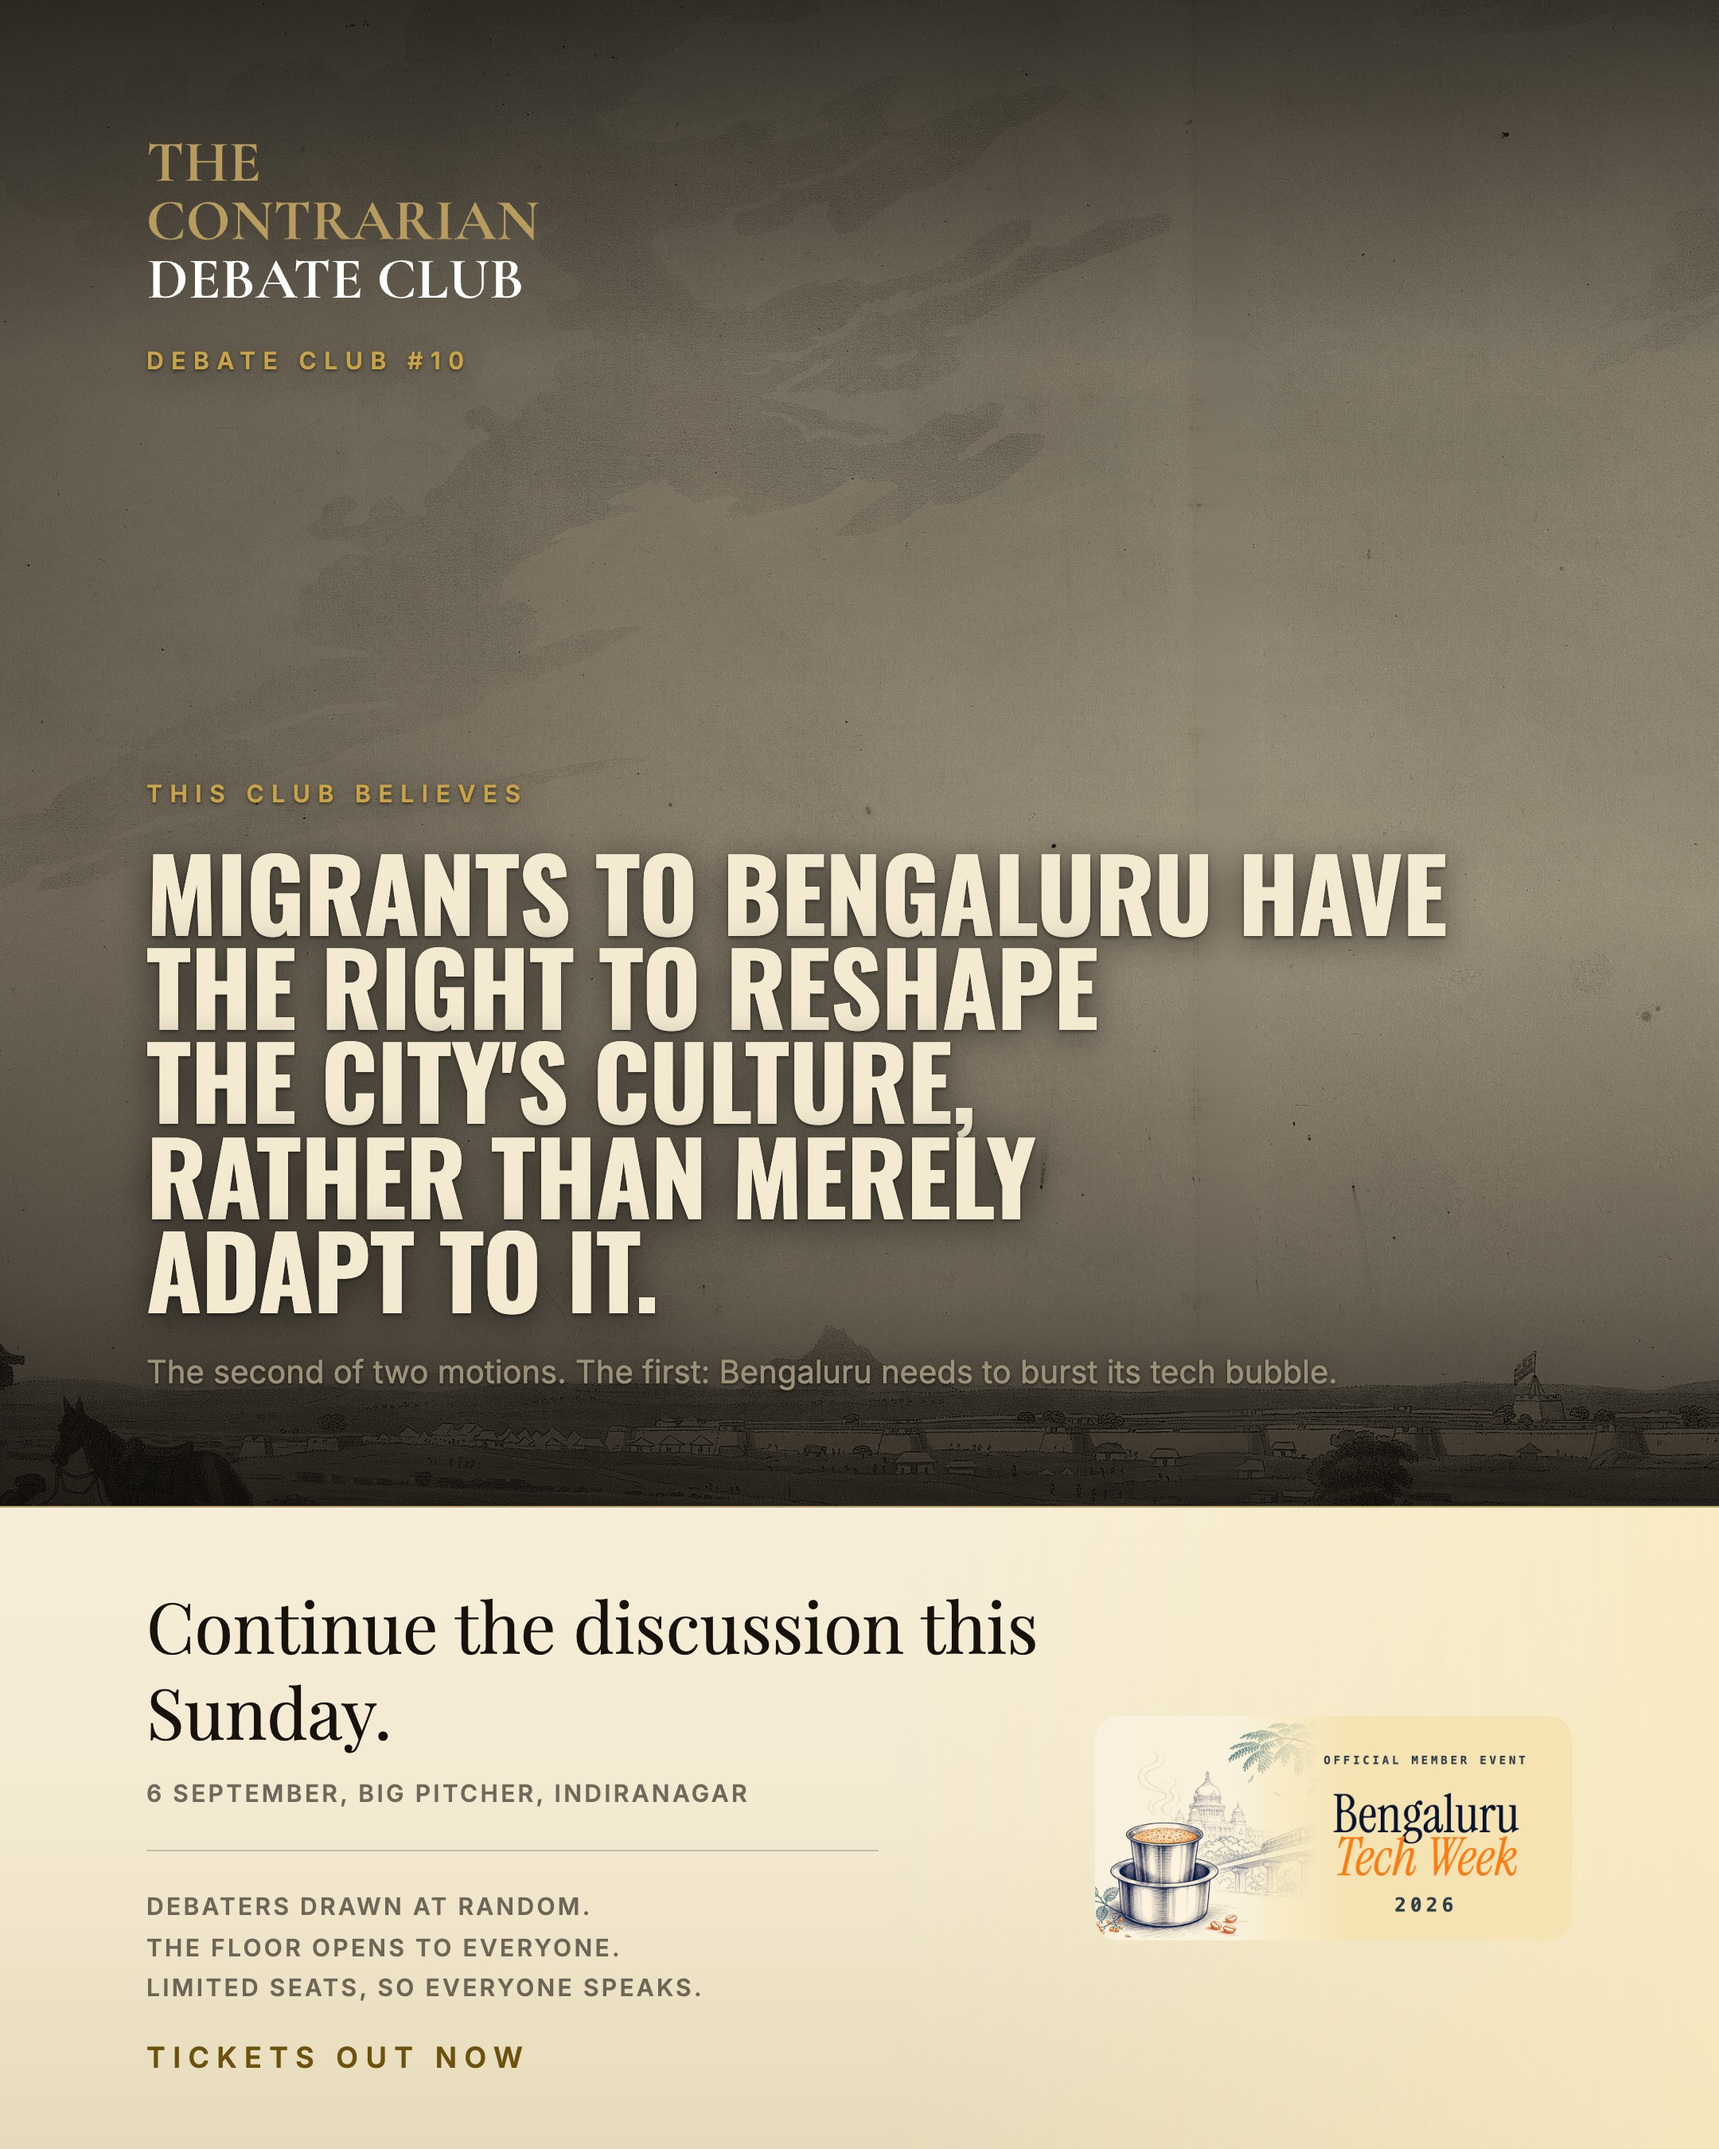
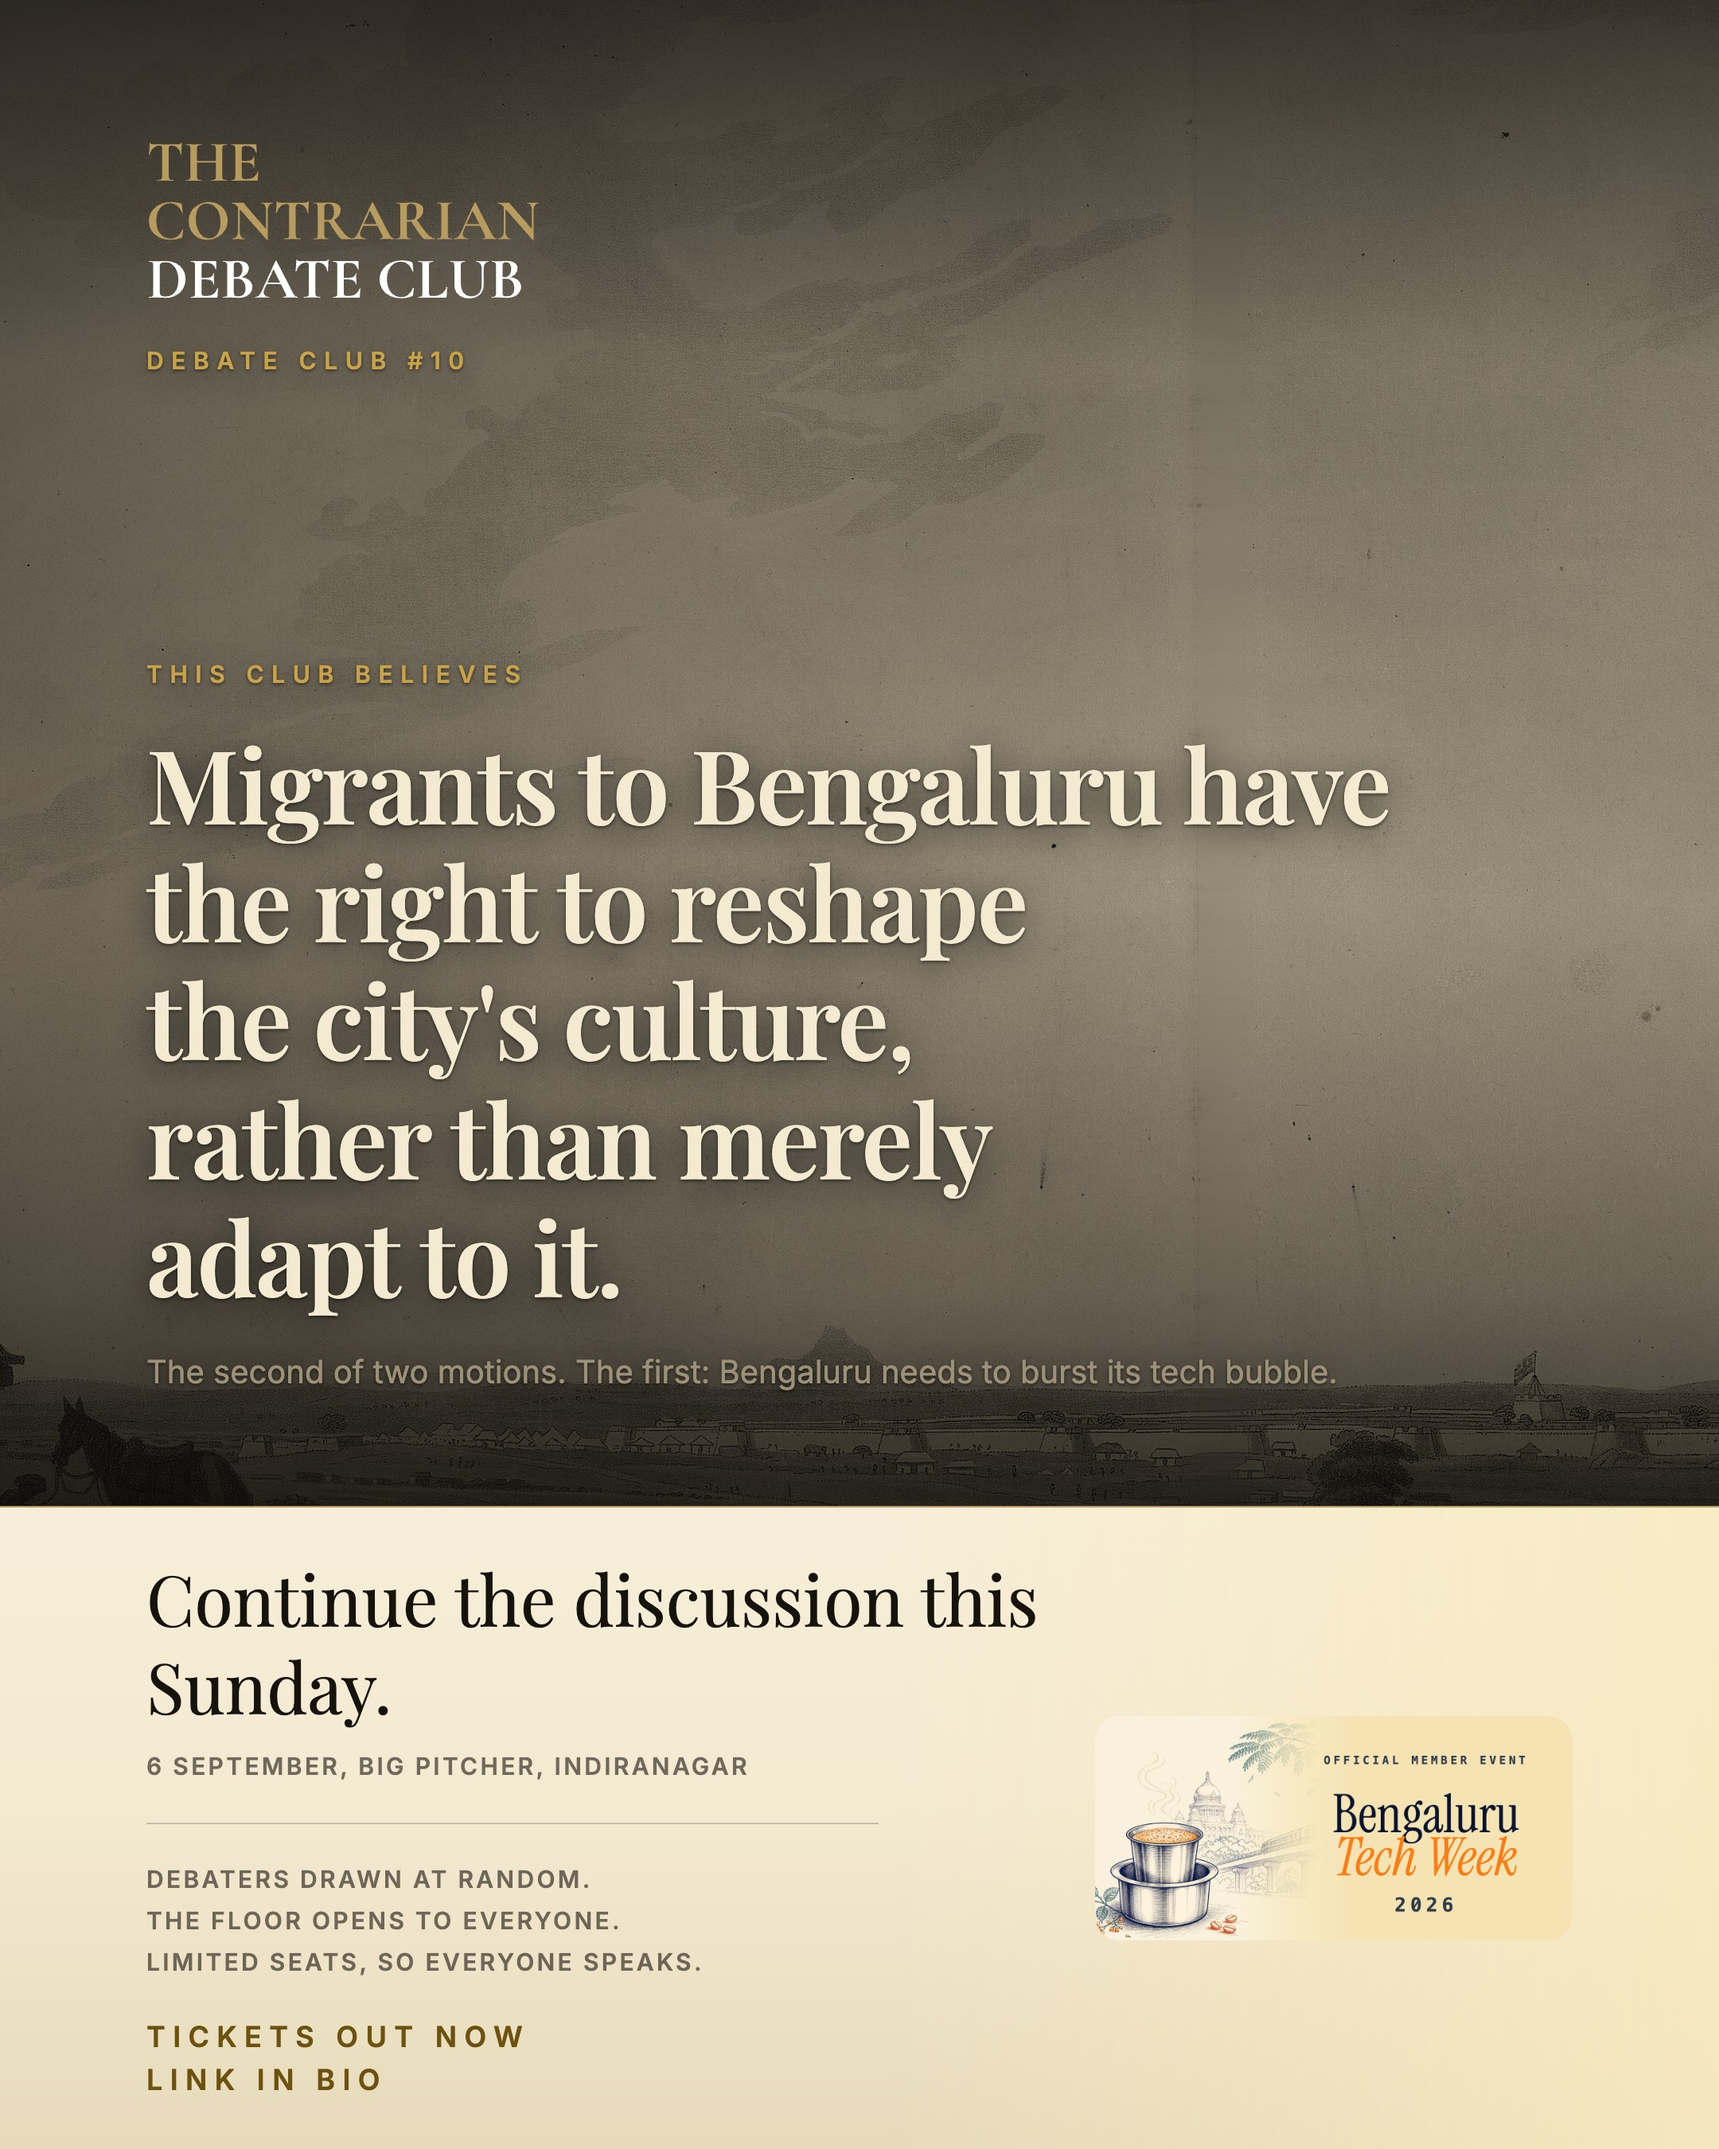
fix(posters): let the question own slide 1, and set the motion as a sentence
Slide 1 drops the narration under the question and gives the whole column to
the question itself, seven hand-broken lines at 136px from just under the
counter down to the rule. The line about the room taking sides was explaining
a question that does not need explaining, and it was the only thing keeping
the type small.

The motion on slide 9 leaves the condensed poster caps for the display serif
at 64px. The first motion is six words and caps are built for six words; this
one is sixteen, with a clause in it, and sixteen words of bold uppercase stop
being a headline and become a paragraph delivered at a shout. Sentence case
reads it as what it is, and each line is larger than the caps were.

The band closes on two lines now, tickets and then "Link in bio", because a
carousel cannot carry a link and has to say where the link is.

Changed region(s): [[0.062, 0.3111, 0.8375, 0.6222], [0.0931, 0.7156, 0.6204, 0.84], [0.0931, 0.8711, 0.4032, 0.9956]]

diff --git a/posters/works/2026-09-06-debate-10-migrants-carousel/slides.tsx b/posters/works/2026-09-06-debate-10-migrants-carousel/slides.tsx
@@ -393,7 +393,10 @@ export function Motion({
   invitation: string;
   when: string;
   lines: string[];
-  cta: string;
+  /** the closing call, one line per instruction. "Link in bio" is the second
+   *  of them because a carousel cannot carry a link: the page has to say where
+   *  the link is, and it says it last, under everything it is a link to. */
+  cta: string[];
 }) {
   const BAND = 404;
   return (
@@ -419,12 +422,32 @@ export function Motion({
           This club believes
         </div>
         {motion.map((line) => (
-          // 63px, which is what the poster in works/2026-09-06-debate-10-migrants
-          // sets this motion at. Sixteen words break into five lines, and five
-          // lines at 63 carry the same mass on the page as the first motion's
-          // three lines at 92. The type is sized to the motion, never the
-          // motion trimmed to the type.
-          <div key={line} style={{ ...CONDENSED, fontSize: 63 }}>
+          // The motion is set in the display serif, not in the condensed caps
+          // the rest of the deck shouts in, and this is the one place this deck
+          // departs from its sibling.
+          //
+          // The first motion is six words. Poster caps are built for six words:
+          // three lines at 92px and it reads as a hit. This one is sixteen, and
+          // sixteen words of bold condensed uppercase stop being a headline and
+          // become a paragraph delivered at a shout. It is also a sentence with
+          // a clause in it, "rather than merely adapt to it", and caps flatten
+          // exactly the kind of grammar that clause depends on.
+          //
+          // So it is set the way the deck says everything else it means: 64px
+          // Playfair, sentence case, as written. Bigger per line than the caps
+          // were, easier to read, and still the loudest thing on the page.
+          <div
+            key={line}
+            style={{
+              margin: 0,
+              fontFamily: "var(--cc-font-display)",
+              fontWeight: 600,
+              fontSize: 64,
+              lineHeight: 1.16,
+              letterSpacing: "-0.015em",
+              color: "var(--cc-ivory)",
+            }}
+          >
             {line}
           </div>
         ))}
@@ -472,11 +495,12 @@ export function Motion({
               {line}
             </div>
           ))}
-          <div
-            className="ce-band-cta"
-            style={{ fontSize: 18, letterSpacing: "0.26em", marginTop: 20 }}
-          >
-            {cta}
+          <div className="ce-band-cta" style={{ marginTop: 20 }}>
+            {cta.map((line) => (
+              <div key={line} style={{ fontSize: 18, letterSpacing: "0.26em", lineHeight: 1.5 }}>
+                {line}
+              </div>
+            ))}
           </div>
         </div>
         <img

diff --git a/posters/works/2026-09-06-debate-10-migrants-carousel/spec.tsx b/posters/works/2026-09-06-debate-10-migrants-carousel/spec.tsx
@@ -161,18 +161,25 @@ const work: WorkSpec = {
           crop={{ x: 0.46, y: 0.52, scale: 2.0 }}
           n={1}
           of={OF}
+          // Seven lines, broken by hand rather than left to wrap, and sized to
+          // the widest of them. This is the only page in the deck with nothing
+          // on it but the question: no narration under it, so the type takes
+          // the whole column from just under the counter down to the rule, and
+          // "here?" lands alone at the foot.
           shout={{
-            lines: ["Is Bengaluru's", "culture being", "erased by the", "people who", "move here?"],
-            size: 76,
+            lines: [
+              "Is",
+              "Bengaluru's",
+              "culture being",
+              "erased by",
+              "the people",
+              "who move",
+              "here?",
+            ],
+            size: 136,
           }}
           cta="Swipe for the argument →"
-          lines={[
-            {
-              text: "Ask it out loud in this city and the room takes sides before you finish the sentence.",
-              size: 32,
-              tone: "parchment",
-            },
-          ]}
+          lines={[]}
         />
       ),
     },
@@ -388,7 +395,7 @@ const work: WorkSpec = {
           invitation="Continue the discussion this Sunday."
           when="6 September, Big Pitcher, Indiranagar"
           lines={HOW_IT_WORKS}
-          cta="Tickets out now"
+          cta={["Tickets out now", "Link in bio"]}
         />
       ),
     },
